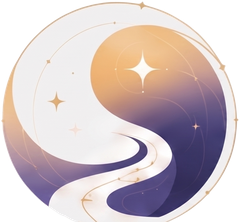
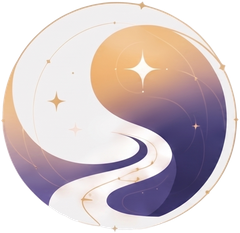
側欄 mark 重裁完整圓 + 命果/MINGO 對齊圓上下切線
- mark 裁切 62%→66%(原底緣被切平);web+App 素材同步替換。
- .brand-text 高=mark 高 44px + space-between + line-height 1:
  命果頂對圓頂、MINGO 底對圓底。截圖驗證。

Claude-Session: https://claude.ai/code/session_01KVnRHeuArPQH9TSRGiJR1K

diff --git a/static/style.css b/static/style.css
@@ -17,10 +17,14 @@ body {
 .brand-en, .landing-wordmark, .landing-subtitle-en { font-family: "Cormorant Garamond", serif; }
 /* 品牌 logo 圖(2026-07-03 新版):landing 主視覺 + 側欄小 mark */
 .landing-logo { width: min(202px, 46vw); height: auto; display: block; margin: 0 auto 14px; }
-/* 側欄品牌:mark 獨立在左,右側「命果/MINGO」上下左對齊 */
+/* 側欄品牌:mark 獨立在左;「命果」頂與「MINGO」底對齊圓的上下切線 */
 .sidebar .brand a { display: flex; align-items: center; gap: 12px; }
 .brand-mark { height: 44px; width: auto; flex-shrink: 0; }
-.brand-text { display: flex; flex-direction: column; text-align: left; }
+.brand-text {
+  display: flex; flex-direction: column; justify-content: space-between;
+  text-align: left; height: 44px; line-height: 1;
+}
+.sidebar .brand .brand-en { margin-top: 0; line-height: 1; }
 /* 全域連結色:預設走 MINGO 紫(避免吃到瀏覽器預設藍);有 scope 的連結如 sidebar 自帶色不受影響 */
 a { color: var(--primary); }
 a:hover { color: var(--accent); }
